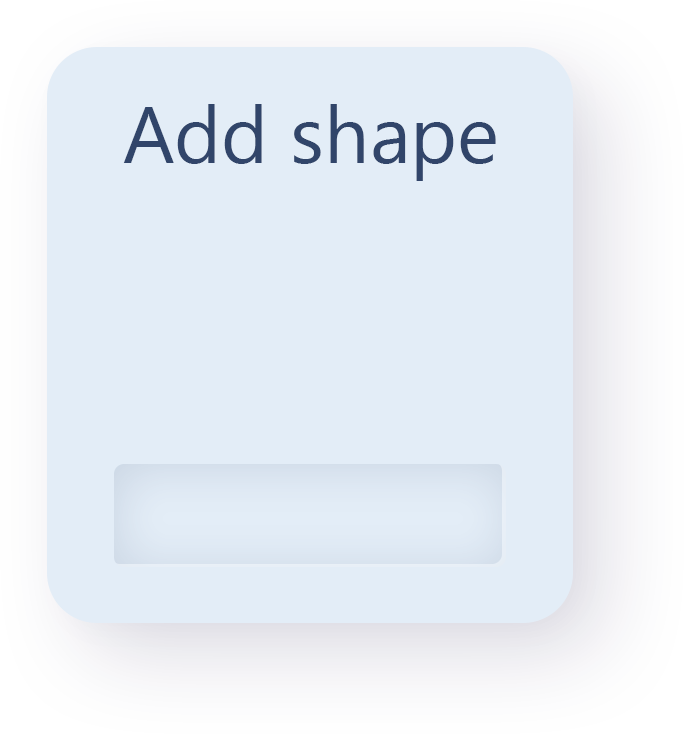
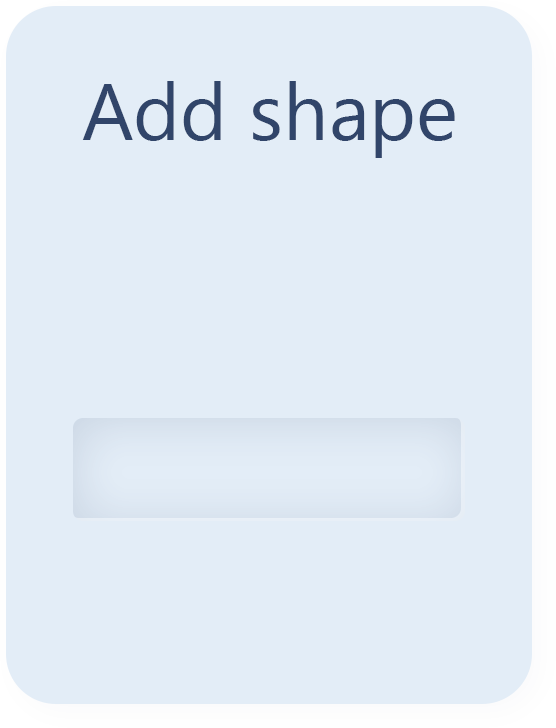
AddElement part of controller implemented v2.0

diff --git a/src/GUI/AddElementsPanel.java b/src/GUI/AddElementsPanel.java
@@ -2,7 +2,9 @@ package GUI;
 
 import javax.imageio.ImageIO;
 import javax.swing.*;
+import javax.swing.border.EmptyBorder;
 import java.awt.*;
+import java.awt.event.ActionListener;
 import java.awt.image.BufferedImage;
 import java.io.File;
 import java.io.IOException;
@@ -10,18 +12,58 @@ import java.io.IOException;
 public class AddElementsPanel extends CreateGUIItems {
     public JPanel addElementBackground;
     public JPanel addElementItems;
+    public JTextField parameter;
+    public JComboBox backpackItems;
+    public JButton addElementButtonSmall;
+    public JButton cancelElementButtonSmall;
 
     public AddElementsPanel() throws IOException {
         addElementBackground = CreateImage("src/img/addElementPannel.png");
+        addElementBackground.setBounds(1300, 170, addElementBackground.getWidth(), addElementBackground.getHeight());
         addElementItems = CreateAddElementItems();
     }
 
+    private JPanel CreateAddElementItems() throws IOException {
+        JPanel addButtonItems = new JPanel(new GridLayout(6, 1));
 
-    private JPanel CreateAddElementItems() {
-        JPanel backpackImage = new JPanel();
-        backpackImage.add(new JLabel("geg"));
-        backpackImage.setBounds(0, 0, 100, 300);
-        backpackImage.setOpaque(true);
-        return backpackImage;
+        String[] items = {
+                "Cube",
+                "Cylinder",
+                "Parallelepiped",
+                "Sphere"
+        };
+
+        backpackItems = new JComboBox(items);
+        backpackItems.setFont(labelsInBackpackFont);
+        backpackItems.setBackground(foregroundColor);
+
+
+        parameter = new JTextField();
+        parameter.setFont(labelsInfoFont);
+        parameter.setBackground(foregroundColor);
+
+        JPanel buttons = new JPanel(new GridLayout(1, 2));
+        addElementButtonSmall = addButton("src/img/ADD Small.png");
+        cancelElementButtonSmall = addButton("src/img/CANCEL Small.png");
+        buttons.add(addElementButtonSmall);
+        buttons.add(cancelElementButtonSmall);
+        buttons.setBackground(foregroundColor);
+
+
+        addButtonItems.add(backpackItems);
+        addButtonItems.add(new JLabel());
+        addButtonItems.add(new JLabel());
+        addButtonItems.add(parameter);
+        addButtonItems.add(new JLabel());
+        addButtonItems.add(buttons);
+
+
+        addButtonItems.setBounds(1360, 250, addElementBackground.getWidth() * 3 / 4, 600);
+        addButtonItems.setBackground(foregroundColor);
+        addButtonItems.setOpaque(true);
+        return addButtonItems;
+    }
+    public void SetCancelButtonListener(ActionListener listener) {
+        cancelElementButtonSmall.addActionListener(listener);
     }
 }

diff --git a/src/Controller/Controller.java b/src/Controller/Controller.java
@@ -1,5 +1,6 @@
 package Controller;
 
+import Backpack.Backpack;
 import GUI.GUI;
 
 import java.awt.event.ActionEvent;
@@ -12,28 +13,50 @@ import javax.swing.*;
 
 public class Controller {
     GUI gui;
+    Backpack backpack;
     JPanel addElementBackground;
+    JPanel getAddElementItems;
+    boolean isAnyButtonEnabled = true;
 
     public Controller() throws IOException {
         gui = new GUI();
+        backpack = new Backpack(500);
         AddElementsPanel addElementsPanel = new AddElementsPanel();
+        ActionListener cancelButtonListener = new CancelButtonListener();
+        addElementsPanel.SetCancelButtonListener(cancelButtonListener);
+
         addElementBackground = addElementsPanel.addElementBackground;
+        getAddElementItems = addElementsPanel.addElementItems;
+
+        getAddElementItems.setVisible(false);
+        addElementBackground.setVisible(false);
+
+        gui.AddPanelToLayers(addElementBackground, 2, 2);
+        gui.AddPanelToLayers(getAddElementItems, 3, 3);
 
         ActionListener addButtonListener = new AddButtonListener();
         gui.SetAddButtonListener(addButtonListener);
 
-
-//        gui.SetBackpackInfo(data);
     }
 
     public class AddButtonListener implements ActionListener {
         public void actionPerformed(ActionEvent e) {
-            gui.AddPanelToLayers(addElementBackground, 2,2);
-            String[][] data = {
-                    {"Parallelepiped", "4031.290"},
-                    {"Parallelepiped", "000.8"}
-            };
-            gui.AddBackpackInfo("keke", "jej");
+            if (isAnyButtonEnabled) {
+                getAddElementItems.setVisible(true);
+                addElementBackground.setVisible(true);
+//                gui.AddPanelToLayers(addElementBackground, 2, 2);
+//                gui.AddPanelToLayers(getAddElementItems, 3, 3);
+                gui.AddBackpackInfo("keke", "jej");
+                isAnyButtonEnabled = false;
+            }
+        }
+    }
+    public class CancelButtonListener implements ActionListener {
+        public void actionPerformed(ActionEvent e) {
+            System.out.println("je");
+            getAddElementItems.setVisible(false);
+            addElementBackground.setVisible(false);
+            isAnyButtonEnabled = true;
         }
     }
 

diff --git a/src/GUI/GUI.java b/src/GUI/GUI.java
@@ -73,21 +73,6 @@ public class GUI extends CreateGUIItems {
         JPanel info = new JPanel();
         info.setLayout(new BoxLayout(info, BoxLayout.X_AXIS));
 
-//        String[][] data = {
-//                {"Parallelepiped", "4031.290"},
-//                {"Parallelepiped", "4031.290"},
-//                {"Parallelepiped", "4031.290"},
-//                {"Parallelepiped", "4031.290"},
-//                {"Parallelepiped", "4031.290"},
-//                {"Parallelepiped", "4031.290"},
-//                {"Parallelepiped", "4031.290"},
-//                {"Parallelepiped", "4031.290"},
-//                {"Parallelepiped", "4031.290"},
-//                {"Parallelepiped", "4031.290"},
-//                {"Parallelepiped", "4031.290"},
-//                {"Parallelepiped", "4031.290"}
-//        };
-
         // Column Names
 //        String[] columnNames = {"Item", "Volume"};
         JTable backpackInfo = new JTable();
@@ -99,6 +84,7 @@ public class GUI extends CreateGUIItems {
 //        JTable backpackInfo = new JTable(data, columnNames);
         backpackInfo.setBackground(backgroundColor);
 
+        backpackInfo.setEnabled(false);
         backpackInfo.setColumnSelectionAllowed(false);
         backpackInfo.getTableHeader().setBackground(backgroundColor);
         backpackInfo.setRowHeight(70);

diff --git a/src/GUI/CreateGUIItems.java b/src/GUI/CreateGUIItems.java
@@ -7,10 +7,12 @@ import java.awt.image.BufferedImage;
 import java.io.File;
 import java.io.IOException;
 
-public class CreateGUIItems extends JPanel{
-     final Color backgroundColor = new Color(215, 226, 238);
-     final Color transparentColor = new Color(0, 0, 0, 0);
-     final Font labelsInfoFont = new Font("Segoe UI", Font.PLAIN, 50);
+public class CreateGUIItems extends JPanel {
+    final Color backgroundColor = new Color(215, 226, 238);
+    final Color foregroundColor = new Color(227, 237, 247);
+    final Color transparentColor = new Color(0, 0, 0, 0);
+    final Font labelsInfoFont = new Font("Segoe UI", Font.PLAIN, 50);
+    final Font labelsInBackpackFont = new Font("Segoe UI", Font.PLAIN, 45);
 
     static JButton addButton(String imgPath) throws IOException {
         BufferedImage buttonIcon = ImageIO.read(new File(imgPath));
@@ -32,7 +34,7 @@ public class CreateGUIItems extends JPanel{
         return label;
     }
 
-     JPanel CreateImage(String img_path) throws IOException {
+    JPanel CreateImage(String img_path) throws IOException {
         JPanel backpackImage = new JPanel();
         backpackImage.setBackground(backgroundColor);
         JLabel backpackImg = addImage(img_path);
